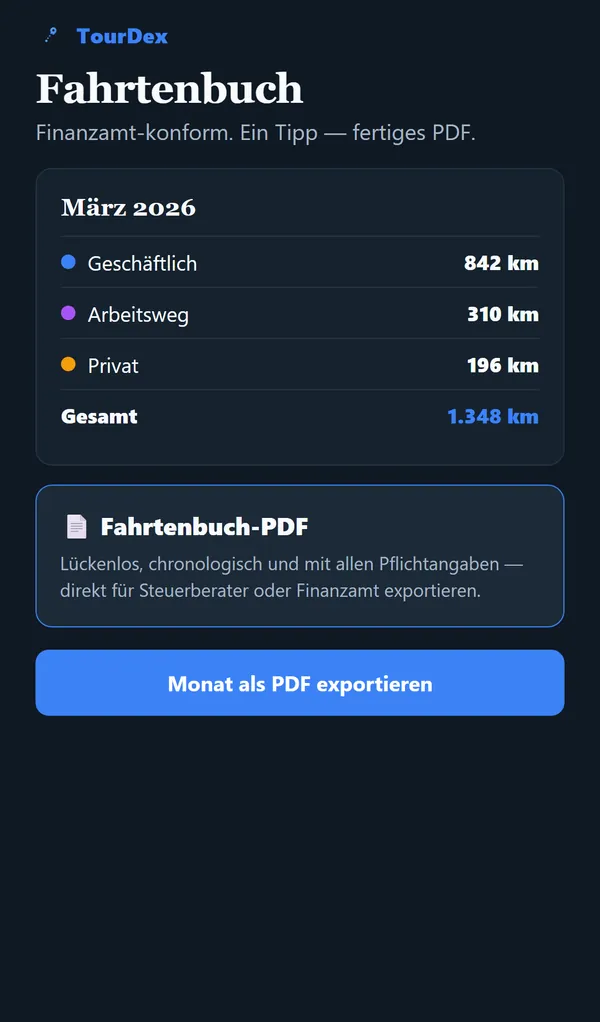
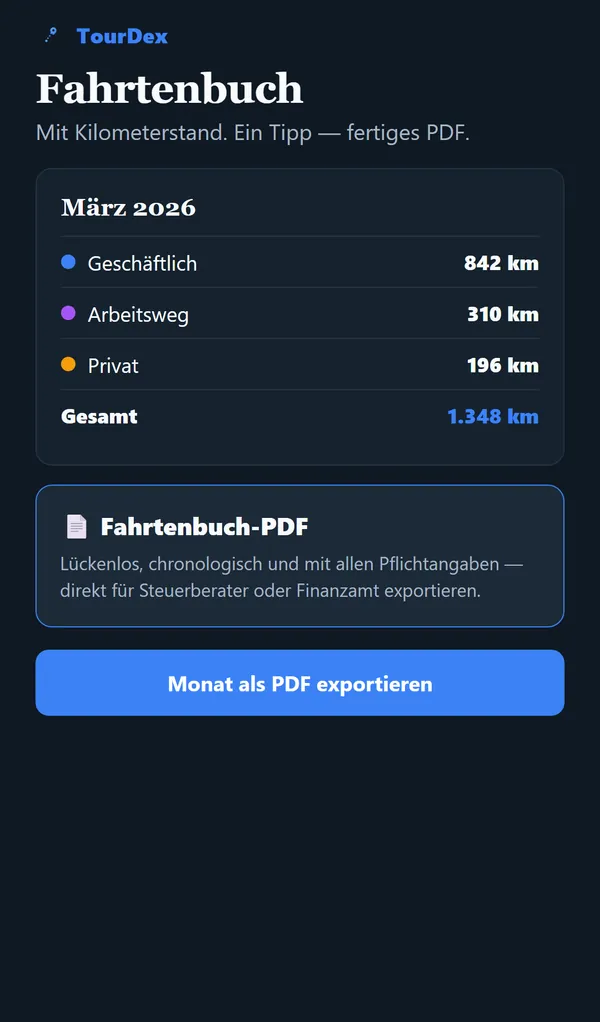
App-Familie: HebeDex (bald) ergänzt

Changed region(s): [[0.06, 0.1213, 0.54, 0.1517], [0.57, 0.1213, 0.78, 0.1517]]

diff --git a/index.html b/index.html
@@ -227,10 +227,11 @@
     @media (max-width: 860px) { .faq { grid-template-columns: 1fr; gap: 24px; } }
 
     /* Familie */
-    .family { display: grid; grid-template-columns: repeat(7, 1fr); gap: 8px; margin-top: 32px; }
+    .family { display: grid; grid-template-columns: repeat(8, 1fr); gap: 8px; margin-top: 32px; }
     .family a { display: flex; flex-direction: column; align-items: center; gap: 8px; padding: 16px 6px 14px; border-radius: 14px;
       color: var(--ink); text-align: center; transition: background .15s; }
     .family a:hover { background: var(--surface); text-decoration: none; box-shadow: var(--shadow); }
+    .family a[aria-disabled] { cursor: default; opacity: .75; } .family a[aria-disabled]:hover { background: none; box-shadow: none; }
     .family img { width: 44px; height: 44px; border-radius: 11px; }
     .family b { font-size: 13.5px; font-weight: 600; line-height: 1.2; }
     .family small { font-size: 12px; color: var(--muted); line-height: 1.3; }
@@ -422,6 +423,7 @@
           <a href="https://dexware.app/" class="btn ghost sm">Alle Apps ansehen <svg class="i sm" viewBox="0 0 24 24" fill="none" stroke="currentColor" stroke-width="1.8" stroke-linecap="round" stroke-linejoin="round" aria-hidden="true"><path d="M5 12h14" /><path d="m12 5 7 7-7 7" /></svg></a>
         </div>
         <div class="family rv">
+          <a aria-disabled="true"><img src="assets/apps/hebedex.webp" alt="" width="44" height="44" loading="lazy" /><b>HebeDex</b><small>Anschlag- & Zurrmittel · bald</small></a>
           <a href="https://gurtdex.dexware.app"><img src="assets/apps/gurtdex.webp" alt="" width="44" height="44" loading="lazy" /><b>GurtDex</b><small>PSA gegen Absturz</small></a>
           <a href="https://toredex.dexware.app"><img src="assets/apps/toredex.webp" alt="" width="44" height="44" loading="lazy" /><b>ToreDex</b><small>Tore & Türen</small></a>
           <a href="https://geruestdex.dexware.app"><img src="assets/apps/geruestdex.webp" alt="" width="44" height="44" loading="lazy" /><b>GerüstDex</b><small>Gerüstprüfung</small></a>
